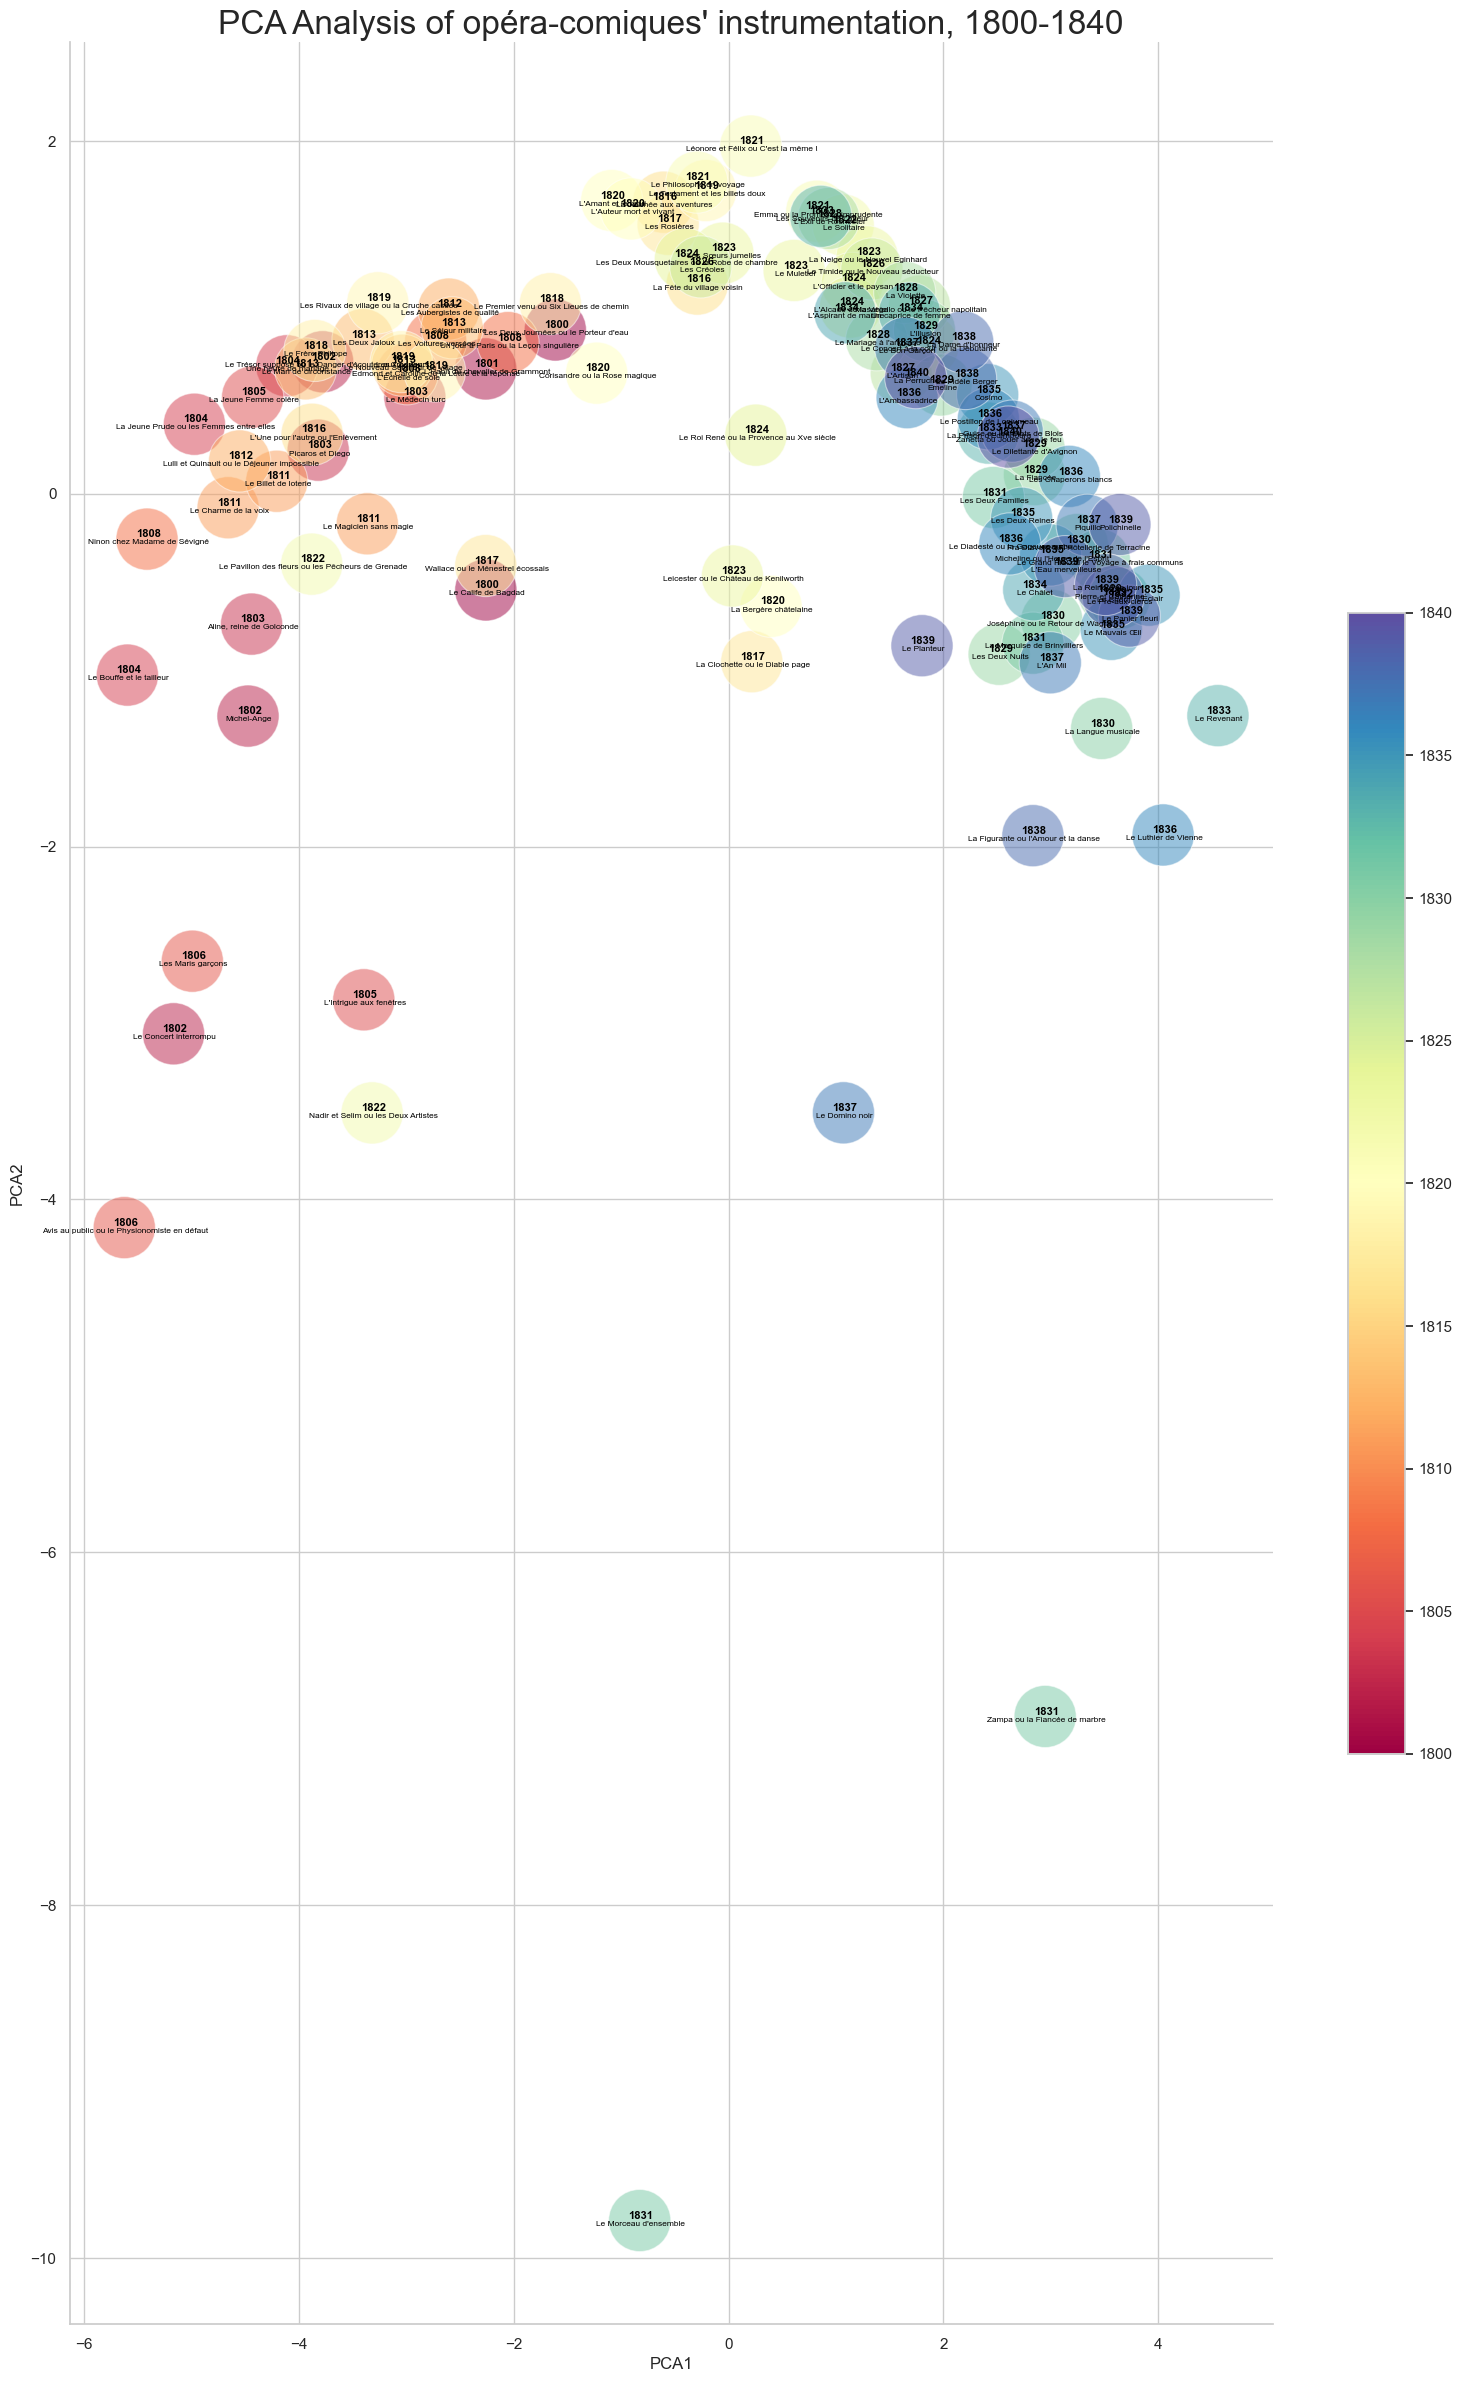
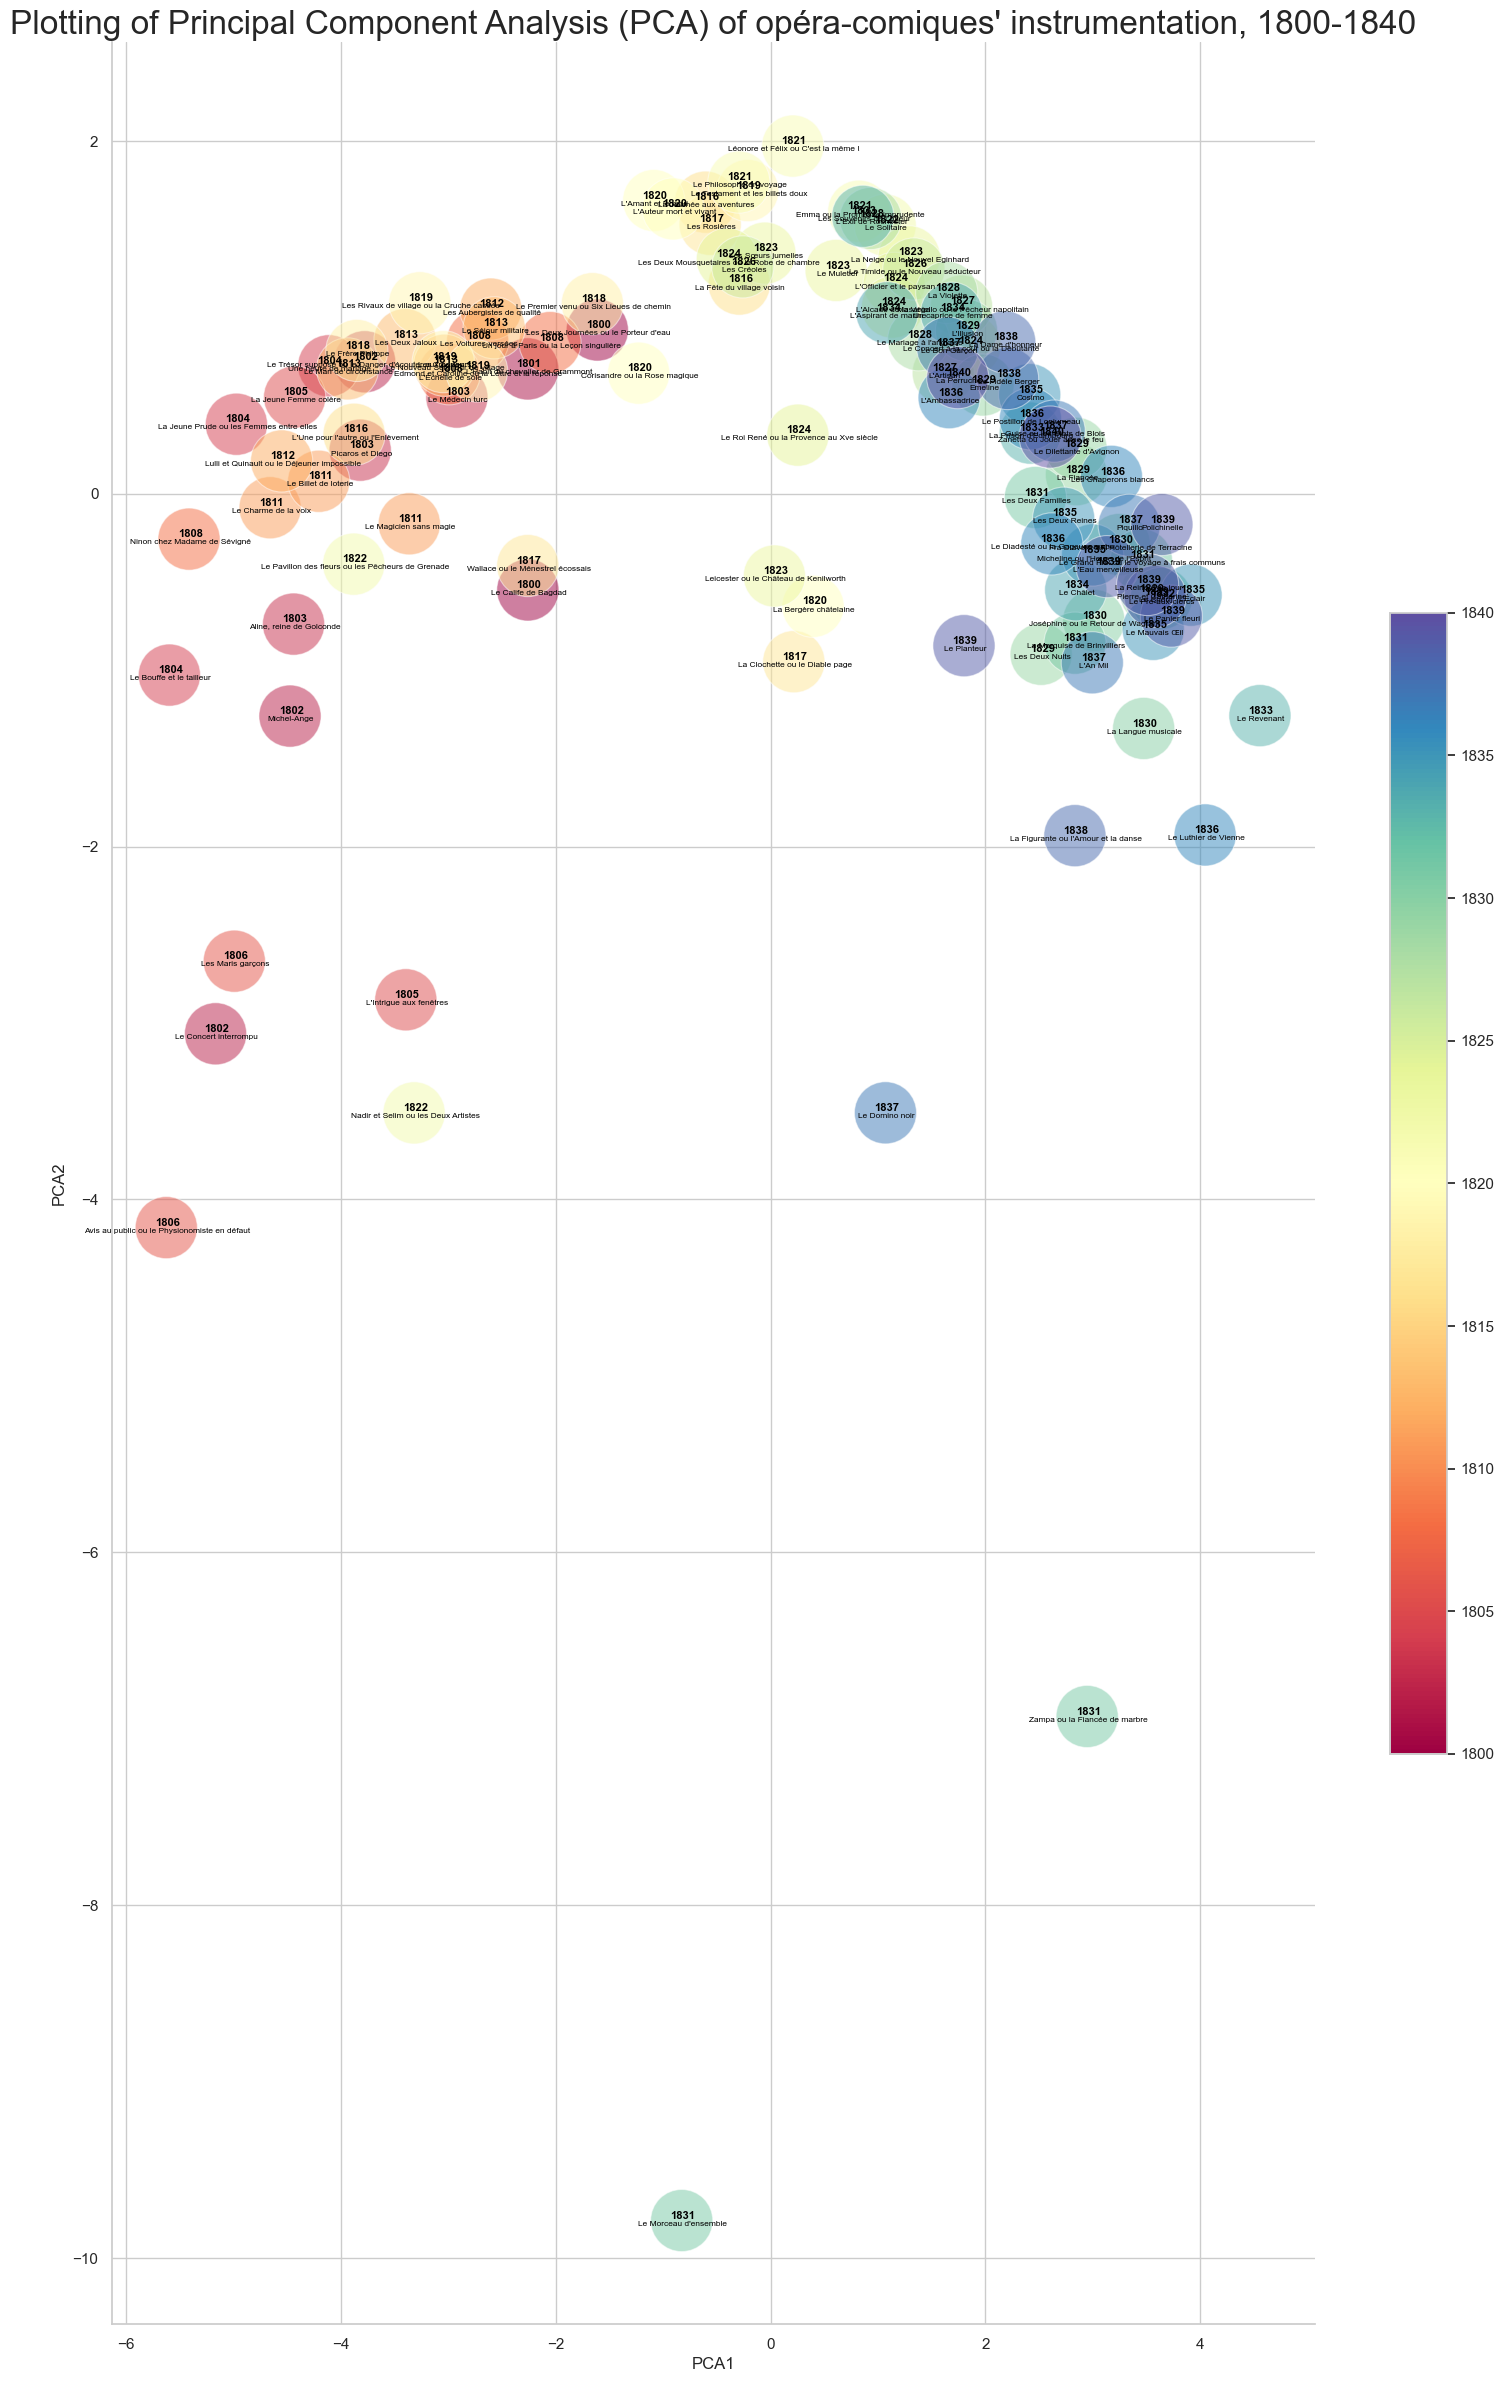
change title

diff --git a/doc-db/src/pca_analysis.py b/doc-db/src/pca_analysis.py
@@ -99,7 +99,7 @@ def make_scatter_plot(d: DataFrame):
             weight="bold",
         )
     chart.set_title(
-        "PCA Analysis of opéra-comiques' instrumentation, 1800-1840",
+        "Plotting of Principal Component Analysis (PCA) of opéra-comiques' instrumentation, 1800-1840",
         size=24,
     )
 
